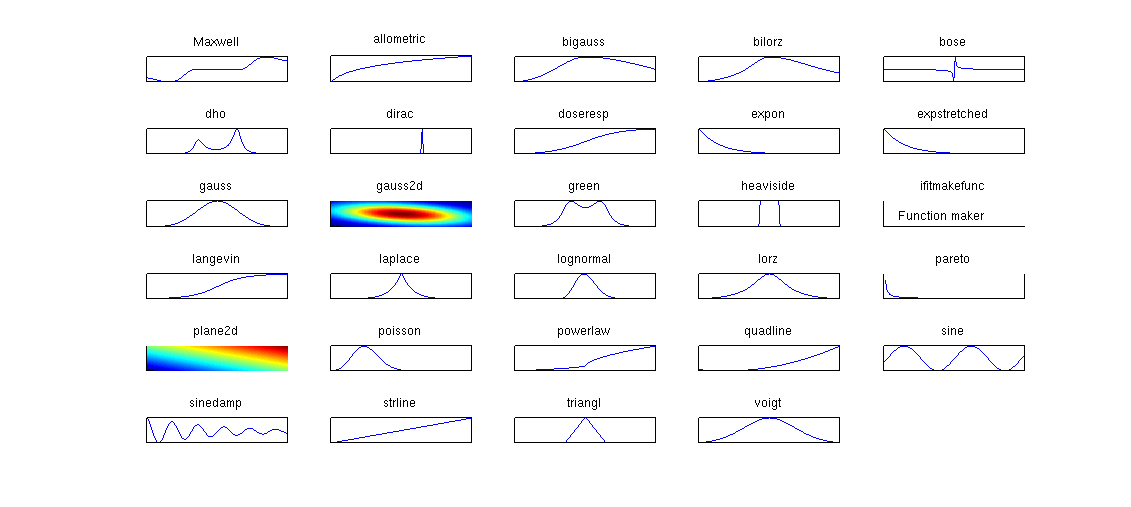
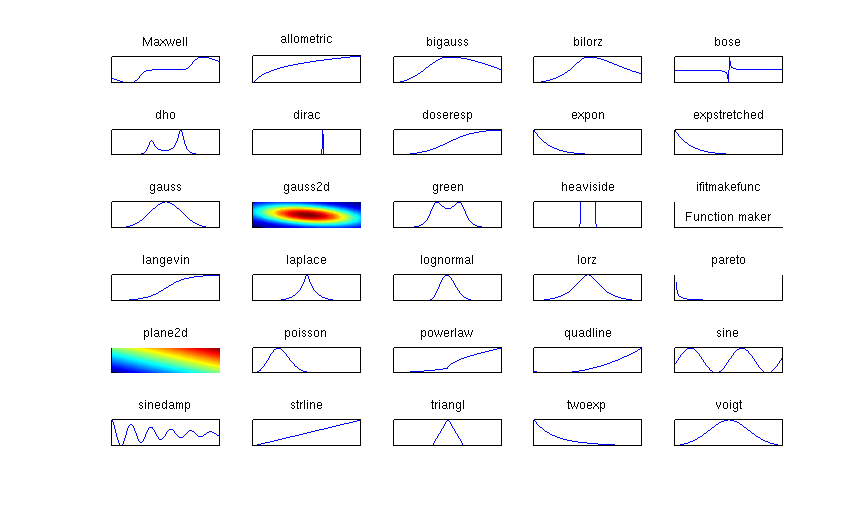
iOptim: fixed Levenberg-Marquardt optimizer. Added 2*exp model.

diff --git a/trunk/Docs/iFuncs.html b/trunk/Docs/iFuncs.html
@@ -8,6 +8,7 @@
 
 
 
+
   <meta http-equiv="content-type" content="text/html; charset=ISO-8859-1">
   <title>iFit: iFuncs model functions</title>
 </head><body>
@@ -292,6 +293,15 @@ Background<br>
 Background</td>
     </tr>
     <tr>
+      <td style="vertical-align: top;"><span style="font-weight: bold;">twoexp</span><br>
+      </td>
+      <td style="vertical-align: top;">Two exponential decay functions<br>
+      </td>
+      <td style="vertical-align: top; color: rgb(51, 204, 0);">1D</td>
+      <td style="vertical-align: top;">Amplitude1 Tau1 Amplitude2 Tau2 Background<br>
+      </td>
+    </tr>
+<tr>
       <td style="vertical-align: top; font-weight: bold;">voigt<br>
       </td>
       <td style="vertical-align: top;">Voigt function<br>
@@ -300,7 +310,26 @@ Background</td>
       </td>
       <td style="vertical-align: top;">Amplitude Centre HalfWidth_Gauss HalfWidth_Lorz Background<br>
       </td>
+    </tr><tr>
+      <td style="vertical-align: top;"><span style="font-weight: bold;">gauss2d</span><br>
+      </td>
+      <td style="vertical-align: top;">2D Gaussian function<br>
+      </td>
+      <td style="vertical-align: top;"><span style="color: rgb(51, 102, 255);">2D</span><br>
+      </td>
+      <td style="vertical-align: top;">Amplitude Centre_X Center_Y HalfWidth_X HalfWidth_Y Angle Background<br>
+      </td>
     </tr>
+    <tr>
+      <td style="vertical-align: top;"><span style="font-weight: bold;">plane2d</span><br>
+      </td>
+      <td style="vertical-align: top;">Planar function<br>
+      </td>
+      <td style="vertical-align: top;"><span style="color: rgb(51, 102, 255);">2D</span></td>
+      <td style="vertical-align: top;">Slope_X Slope_Y Background<br>
+      </td>
+    </tr>
+
   </tbody>
 </table>
 <br>
@@ -406,7 +435,7 @@ function also exists in <span style="font-style: italic;">iFit/iFuncs/private/te
 <div style="text-align: center;">
 <div style="text-align: center;"><span style="font-style: italic;">E.
 Farhi - iFit/fit models - </span><span style="font-style: italic;">
-$Date: 2012-01-19 22:31:50 $ $Revision: 1.18 $
+$Date: 2012-01-25 14:52:10 $ $Revision: 1.19 $
 </span><span style="font-style: italic;"> </span>-
 back to <a href="index.html">Main
 iFit Page </a><a href="http://www.ill.eu/"><img title="ILL, Grenoble, France &lt;www.ill.eu&gt;" src="images/ILL-web-jpeg.jpg" alt="ILL, Grenoble, France &lt;www.ill.eu&gt;" style="border: 0px solid ; width: 53px; height: 50px;" align="right"></a>

diff --git a/trunk/iFuncs/twoexp.m b/trunk/iFuncs/twoexp.m
@@ -1,0 +1,127 @@
+function signal=twoexp(p, x, signal)
+% signal = twoexp(p, x, {signal}) : two exponential decay functions
+%
+%   iFunc/twoexp two exponential decay functions (fit 1D function/model)
+%     y=p(1)*exp(-x/p(2))+p(3)*exp(-x/p(4)) + p(5);
+%   the function called with a char argument performs specific actions.
+%
+% input:  p: twoexp model parameters (double)
+%            p = [   'Amplitude1' 'Tau1' 'Amplitude2' 'Tau2' 'Background' ] as a numerical array
+%          or action e.g. 'identify', 'guess', 'plot' (char)
+%         x: axis (double)
+%    signal: when values are given, a guess of the parameters is performed (double)
+% output: signal: model value or information structure ('guess', 'identify','plot')
+% ex:     signal=twoexp([1 0 1 1], -10:10); or signal=twoexp('identify') or p=twoexp('guess',x,signal);
+%
+% Version: $Revision: 1.1 $
+% See also iData, ifitmakefunc
+
+% 1D function created by ifitmakefunc from template (iFit/iFuncs)
+%   Please retain the function definition structure as defined below
+%   in most cases, just fill-in the information when HERE is indicated
+
+  if nargin >= 2 && isnumeric(p) && ~isempty(p) && isnumeric(x) && ~isempty(x)
+  %   evaluate: model(p,x, ...)
+    signal = evaluate(p, x);
+  elseif nargin == 3 && isnumeric(x) && isnumeric(signal) && ~isempty(x) && ~isempty(signal)
+  %   guess: model('guess', x,signal)
+  %   guess: model(p,       x,signal)
+    signal = guess(x,signal);
+  elseif nargin == 2 && isnumeric(p) && isnumeric(x) && numel(p) == numel(x)
+  %   guess: model(x,signal) with numel(x)==numel(signal)
+    signal = guess(p,x);
+  elseif nargin == 2 && isnumeric(p) && ~isempty(p) && isempty(x)
+  %   evaluate: model(p,[])
+    signal = feval(mfilename, p);
+  elseif nargin == 2 && isempty(p) && isnumeric(x) && ~isempty(x)
+  %   identify: model([],x)
+    info = identify; x=x(:); signal=[];
+    info.Guess  = [ 1 std(x)/2 0.5 std(x)*2 0.01 ];
+    info.Axes   = { x };
+    info.Values = evaluate(info.Guess, info.Axes{:});
+    signal = info;
+  elseif nargin == 1 && isnumeric(p) && ~isempty(p) 
+  %   identify: model(p)
+    signal = identify;
+    signal.Guess  = p;
+    width    = 0;
+    position = 0;
+    parameter_names = lower(signal.Parameters);
+    % HERE default axes to represent the model when parameters are given <<<<<<<
+    % test parameter names
+    for index_p=1:length(parameter_names)
+      if  ~isempty(strfind(parameter_names{index_p}, 'width')) ...
+        | ~isempty(strfind(parameter_names{index_p}, 'tau')) ...
+        | ~isempty(strfind(parameter_names{index_p}, 'damping'))
+        width = width+abs(p(index_p));                     % kind of embrace all peaks
+      elseif ~isempty(strfind(parameter_names{index_p}, 'centre')) ...
+        |    ~isempty(strfind(parameter_names{index_p}, 'center')) ...
+        |    ~isempty(strfind(parameter_names{index_p}, 'position'))
+        if position == 0, position = p(index_p);
+        else position = mean( [position p(index_p)] ); end % kind of center on all peaks
+      end
+    end
+    if width == 0
+      if position == 0, width=1; else width=abs(position/2); end
+    end
+    signal.Axes   =  { linspace(position-3*width,position+3*width, 100) };
+    signal.Values = evaluate(signal.Guess, signal.Axes{:});
+  elseif nargin == 1 && ischar(p) && strcmp(p, 'plot') % only works for 1D
+    signal = feval(mfilename, [], linspace(0,2, 100));
+    if signal.Dimension == 1
+      plot(signal.Axes{1}, signal.Values);
+    elseif signal.Dimension == 2
+      surf(signal.Axes{1}, signal.Axes{2}, signal.Values);
+    end
+    title(mfilename);
+  elseif nargin == 0
+    signal = feval(mfilename, [], linspace(0,2, 100));
+  else
+    signal = identify;
+  end
+
+end
+%                                        end of model main twoexp
+% ------------------------------------------------------------------------------
+
+% inline: evaluate: compute the model values
+function signal = evaluate(p, x)
+  sx = size(x); x=x(:);
+  if isempty(x) | isempty(p), signal=[]; return; end
+  
+  % HERE is the model evaluation <<<<<<<<<<<<<<<<<<<<<<<<<<<<<<<<<<<<<<<<<<<<<<<
+    signal = p(1)*exp(-x/p(2))+p(3)*exp(-x/p(4)) + p(5);
+  
+  signal = reshape(signal, sx);
+end
+
+% inline: identify: return a structure which identifies the model
+function signal =identify()
+  % HERE are the parameter names
+  parameter_names = {  'Amplitude1' 'Tau1' 'Amplitude2' 'Tau2' 'Background'};
+  %
+  signal.Type           = 'iFit fitting function';
+  signal.Name           = [ 'two exponential decay functions (1D) [' mfilename ']' ];
+  signal.Parameters     = parameter_names;
+  signal.Dimension      = 1;         % dimensionality of input space (axes) and result
+  signal.Guess          = [ 1 2 0.5 3 0.01 ];        % default parameters
+  signal.Axes           = {};        % the axes used to get the values
+  signal.Values         = [];        % default model values=f(p)
+  signal.function       = mfilename;
+end
+
+% inline: guess: guess some starting parameter values and return a structure
+function info=guess(x,y)
+  info       = identify;  % create identification structure
+  info.Axes  = { x };
+  % fill guessed information
+  mny = min(y);
+  if min(y) <= 0, bkg = min(y); else bkg = 0; end
+  pe = polyfit(x,log(y - bkg - abs(bkg)*0.01),1); % p(1) is the highest degree parameter
+  p(1) = exp(pe(2))/2; p(3) = p(1);
+  p(2) = -1/pe(1); p(4) = p(2);
+  p(5) = mny;
+  info.Guess = p;
+  info.Values= evaluate(info.Guess, info.Axes{:});
+end
+

diff --git a/trunk/iOptim/private/LMFsolve.m b/trunk/iOptim/private/LMFsolve.m
@@ -82,12 +82,16 @@ function [xf, S, nfJ,exitflag] = LMFsolve(varargin)
 % Fletcher, R., (1971): A Modified Marquardt Subroutine for Nonlinear Least
 % Squares. Rpt. AERE-R 6799, Harwell
 
-% M. Balda, 
-% Institute of Thermomechanics, 
-% Academy of Sciences of The Czech Republic,
+% Miroslav Balda, 
 % balda AT cdm DOT cas DOT cz
-% 2007-07-02
-% 2007-10-08    formal changes, improved description
+% 2007-07-02    v 1.0
+% 2008-12-22    v 1.1 * Changed name of the function in LMFsolv
+%                     * Removed part with wrong code for use of analytical 
+%                       form for assembling of Jacobian matrix
+% 2009-01-08    v 1.2 * Changed subfunction printit.m for better one, and
+%                       modified its calling from inside LMFsolve.
+%                     * Repaired a bug, which caused an inclination to
+%                       istability, in charge of slower convergence.
 %%%%%%%%%%%%%%%%%%%%%%%%%%%%%%%%%%%%%%%%%%%%%%%%%%%
 
 %   OPTIONS
@@ -168,7 +172,7 @@ end
 x=xc(:);
 lx=length(x);
 
-r=feval(FUN,x);             % Residuals at starting point
+r=sqrt(feval(FUN,x));             % Residuals at starting point
 if length(r) == 1, r=r*ones(5,1)/5; 
 else r=r(:); end
 %~~~~~~~~~~~~~~
@@ -209,7 +213,7 @@ while exitflag==0      %   MAIN ITERATION CYCLE
     d=(A+l*D)\v;            % negative solution increment
     end
     xd=x-d;
-    rd=feval(FUN,xd); 
+    rd=sqrt(feval(FUN,xd)); 
     if length(rd) == 1, rd=rd*ones(5,1)/5; 
     else rd=rd(:); end
     nfJ = nfJ+1;
@@ -269,7 +273,7 @@ function J = finjac(FUN,r,x,epsx)
       dx=.25*epsx(k);
       xd=x;
       xd(k)=xd(k)+dx;
-      rd=feval(FUN,xd); 
+      rd=sqrt(feval(FUN,xd)); 
       if length(rd) == 1, rd=rd*ones(5,1)/5; 
       else rd=rd(:); end
   %   ~~~~~~~~~~~~~~~~    

diff --git a/trunk/@iData/fits.m b/trunk/@iData/fits.m
@@ -77,7 +77,7 @@ function [pars_out,criteria,message,output] = fits(a, model, pars, options, cons
 %         o=fminpowell('defaults'); o.OutputFcn='fminplot'; 
 %         [p,c,m,o]=fits(a,'gauss',[1 2 3 4],o); b=o.modelValue
 %
-% Version: $Revision: 1.37 $
+% Version: $Revision: 1.38 $
 % See also iData, fminsearch, optimset, optimget, ifitmakefunc
 
 % private functions: eval_criteria, least_square
@@ -307,7 +307,7 @@ end
 
 if strcmp(options.Display, 'iter') | strcmp(options.Display, 'final') | strcmp(options.Display, 'notify')
   disp([ sprintf('\n') '** Ending fit of ' a.Tag ' using model ' info.Name ' with optimizer ' options.algorithm ]);
-  fprintf(1, '   %i iterations. Status: %s\n', output.funcCount, output.message);
+  fprintf(1, '   %i iterations. Criteria=%g Status: %s\n', output.funcCount, sum(criteria(:)), output.message);
   for index=1:length(info.Parameters); fprintf(1,'%10s ', info.Parameters{index}); end; fprintf(1,'\n');
   fprintf(1,'%10.2g ', pars_out); fprintf(1,'\n');
   index=find(output.criteriaHistory < min(output.criteriaHistory)*4);   % identify tolerance region around optimum
@@ -384,7 +384,7 @@ function c=least_absolute(Signal, Error, Model)
     index = find(Error == 0);
     Error(index) = minError;
     index = find(isfinite(Error) & isfinite(Model) & isfinite(Signal));
-    if isempty(index), c=0;
+    if isempty(index), c=Inf;
     else               c=abs((Signal(index)-Model(index))./Error(index));
     end
   end
